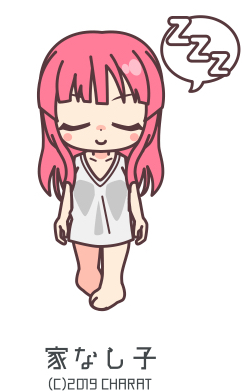
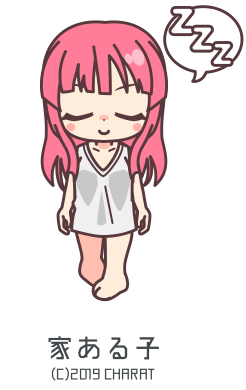
家ある子ちゃん修正

Changed region(s): [[0.1429, 0.0, 1.0, 0.8], [0.1714, 0.8615, 0.6571, 1.0]]

diff --git a/iearuko/resources/views/rooms/show.blade.php b/iearuko/resources/views/rooms/show.blade.php
@@ -281,7 +281,40 @@ function createMarker(latlng, icn, place)
 &nbsp;&nbsp;&nbsp;&nbsp;&nbsp;&nbsp;<input type="radio" name="tori" value="veterinary_care" >動物病院<br>
 &nbsp;&nbsp;&nbsp;&nbsp;&nbsp;&nbsp;<input type="radio" name="tori" value="school" >学校<br>
 &nbsp;&nbsp;&nbsp;&nbsp;&nbsp;&nbsp;<input type="radio" name="tori" value="gym" >ジム</div>
-<img src="/images/iearukochann.jpg"style="float:right; height:200px; padding: 300px 0 0 0;">
+<img id="okiru" src="/images/iearukochann.jpg" onclick="changeIMG()" style="float:right; height:200px; padding: 300px 0 0 0;">
+
+<script>
+
+//画像を配列に格納する
+var img = new Array();
+
+img[0] = new Image();
+img[0].src = "/images/nemu_arukochan.jpg";
+img[1] = new Image();
+img[1].src = "/images/iearukochann.jpg";
+
+
+
+//画像番号用のグローバル変数
+var cnt=0;
+
+
+//画像切り替え関数
+function changeIMG(){
+
+  //画像番号を進める
+  if (cnt == 1)
+  { cnt=0; }
+  else
+  { cnt++; }
+
+  //画像を切り替える
+  document.getElementById("okiru").src=img[cnt].src;
+}
+
+</script>
+
+
 </form>
 </div>
 
